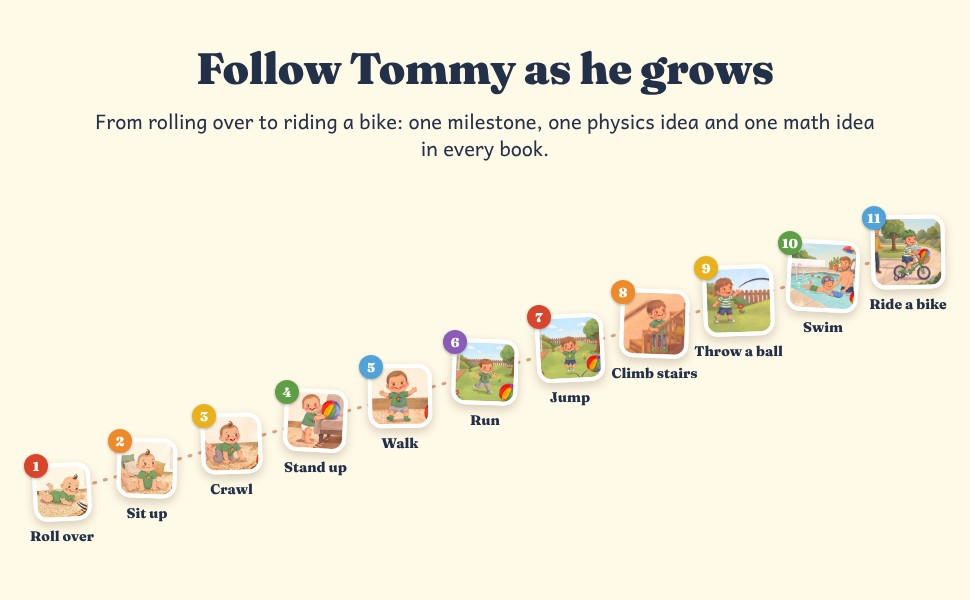
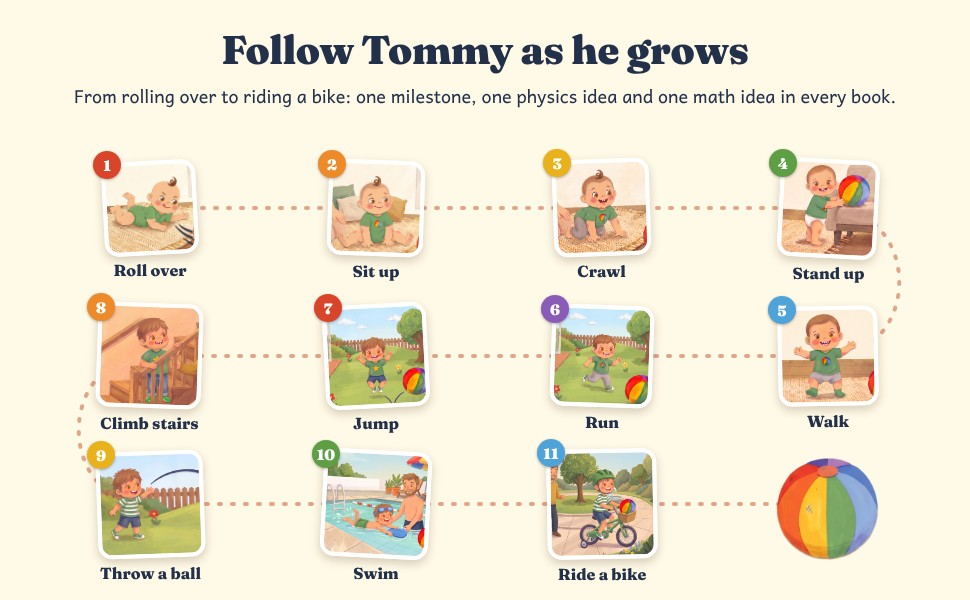
A+: la imagen de la serie pasa a víbora de 3 filas con Rula al final
Claude-Session: https://claude.ai/code/session_01D1pUKWwo8J3jsyg297Aijq

diff --git a/maqueta/aplus.py b/maqueta/aplus.py
@@ -145,26 +145,33 @@ SERIE = {
 
 
 def serie(lang):
-    """Imagen genérica de la serie, la misma para todos los libros: Tommy de cada libro, creciendo en escalera
+    """Imagen genérica de la serie, la misma para todos los libros: Tommy de cada libro, en víbora de 3 filas
     (las fotitos salen de maqueta/img-kdp/coleccion-fotoN.jpg, que arma kdp_coleccion.py). No nombra tapas
     ni cuántos libros hay publicados, así no hay que cambiarla cuando sale un libro nuevo."""
     t = SERIE[lang]
-    puntos, items = [], []
-    for i in range(11):
+    xs, ys = [150, 376, 602, 828], [218, 366, 514]   # víbora: 3 filas de 4, ida y vuelta; el último lugar es Rula
+    items = []
+    for i in range(12):
+        fila, col = divmod(i, 4)
+        cx = xs[col] if fila % 2 == 0 else xs[3 - col]
+        cy = ys[fila]
+        if i == 11:
+            items.append(f'<img src="file://{RAIZ}/web/img/rula.webp" style="position:absolute;left:{cx - 52}px;top:{cy - 56}px;width:104px">')
+            continue
         n = i + 1
-        lado = 58 + i * 1.6
-        cx = 62 + i * 84.6
-        cy = 492 - i * 24
-        puntos.append(f"{cx:.0f},{cy:.0f}")
+        lado = 94 + i * 1.6
         items.append(
-            f'<div style="position:absolute;left:{cx - lado / 2:.0f}px;top:{cy - lado / 2:.0f}px;width:{lado:.0f}px">'
+            f'<div style="position:absolute;left:{cx - lado / 2:.0f}px;top:{cy - lado / 2 - 10:.0f}px;width:{lado:.0f}px">'
             f'<div class="foto" style="width:{lado:.0f}px;height:{lado:.0f}px;border:4px solid #fff;background-image:url(file://{AQUI}/img-kdp/coleccion-foto{n}.jpg);transform:rotate({[-3, 2, -2, 3, -1, 2][i % 6]}deg)"></div>'
-            f'<span style="position:absolute;left:-9px;top:-9px;display:flex;width:24px;height:24px;border-radius:50%;background:{COLS[i % 6]};color:#fff;align-items:center;justify-content:center;font-family:Fraunces,serif;font-weight:900;font-size:13px;box-shadow:0 1px 3px rgba(0,0,0,.3)">{n}</span>'
-            f'<div style="position:absolute;left:-14px;right:-14px;top:{lado + 8:.0f}px;text-align:center;font-family:Fraunces,serif;font-weight:800;font-size:14px;line-height:1.05">{e(t["hitos"][i])}</div></div>')
+            f'<span style="position:absolute;left:-10px;top:-10px;display:flex;width:28px;height:28px;border-radius:50%;background:{COLS[i % 6]};color:#fff;align-items:center;justify-content:center;font-family:Fraunces,serif;font-weight:900;font-size:15px;box-shadow:0 1px 3px rgba(0,0,0,.3)">{n}</span>'
+            f'<div style="position:absolute;left:-30px;right:-30px;top:{lado + 7:.0f}px;text-align:center;font-family:Fraunces,serif;font-weight:800;font-size:16px;line-height:1.05;text-shadow:0 0 4px #FFF9E7,0 0 8px #FFF9E7">{e(t["hitos"][i])}</div></div>')
+    y0, y1, y2 = [y - 10 for y in ys]
+    camino = (f"M{xs[0]},{y0} H{xs[3]} C{xs[3] + 95},{y0} {xs[3] + 95},{y1} {xs[3]},{y1} "
+              f"H{xs[0]} C{xs[0] - 95},{y1} {xs[0] - 95},{y2} {xs[0]},{y2} H{xs[3]}")
     return BASE + f"""<div class="lienzo" style="width:970px;height:600px">
-<h2 style="position:absolute;left:0;right:0;top:46px;font-size:44px;text-align:center">{e(t['t'])}</h2>
-<p style="position:absolute;left:90px;right:90px;top:108px;font-size:20px;line-height:1.35;text-align:center;margin:0">{e(t['b'])}</p>
-<svg width="970" height="600" style="position:absolute;left:0;top:0"><polyline points="{' '.join(puntos)}" fill="none" stroke="#C4532E" stroke-width="3" stroke-dasharray="2 9" stroke-linecap="round" opacity=".55"/></svg>
+<h2 style="position:absolute;left:0;right:0;top:30px;font-size:40px;text-align:center">{e(t['t'])}</h2>
+<p style="position:absolute;left:60px;right:60px;top:84px;font-size:18px;line-height:1.3;text-align:center;margin:0">{e(t['b'])}</p>
+<svg width="970" height="600" style="position:absolute;left:0;top:0"><path d="{camino}" fill="none" stroke="#C4532E" stroke-width="4" stroke-dasharray="2 11" stroke-linecap="round" opacity=".5"/></svg>
 {''.join(items)}</div></body></html>"""
 
 

diff --git a/kdp/aplus/README.md b/kdp/aplus/README.md
@@ -2,7 +2,7 @@
 
 Se carga en KDP › Marketing › A+ Content Manager (o en la ficha del libro, "A+ Content"). Una versión por idioma: la inglesa en la tienda de Estados Unidos con el libro en inglés (B0HPS5H68W) y la española con el libro en español (B0HPS5LPS9). Las imágenes salen de `python3 maqueta/aplus.py`.
 
-> **Cambio del 4/11/2026: la imagen de la serie es genérica.** El módulo 4 usa `serie-en.jpg` (o `serie-es.jpg`) en todos los libros: Tommy de cada libro en escalera, del bebé que gira al nene en bici, sin tapas ni "more books coming soon". No hay que cambiarla cuando sale un libro nuevo. Alt text: **Tommy growing up, from a baby rolling over to a boy riding a bike: the 11 milestones of the series** (en español: **Tommy crece, del bebé que gira al nene que anda en bici: los 11 logros de la serie**). Donde abajo dice `serie-xx.jpg`, usar esta.
+> **Cambio del 4/11/2026: la imagen de la serie es genérica.** El módulo 4 usa `serie-en.jpg` (o `serie-es.jpg`) en todos los libros: Tommy de cada libro en forma de víbora (3 filas de ida y vuelta, con Rula al final), del bebé que gira al nene en bici, sin tapas ni "more books coming soon". No hay que cambiarla cuando sale un libro nuevo. Alt text: **Tommy growing up, from a baby rolling over to a boy riding a bike: the 11 milestones of the series** (en español: **Tommy crece, del bebé que gira al nene que anda en bici: los 11 logros de la serie**). Donde abajo dice `serie-xx.jpg`, usar esta.
 
 Módulos, en este orden:
 
